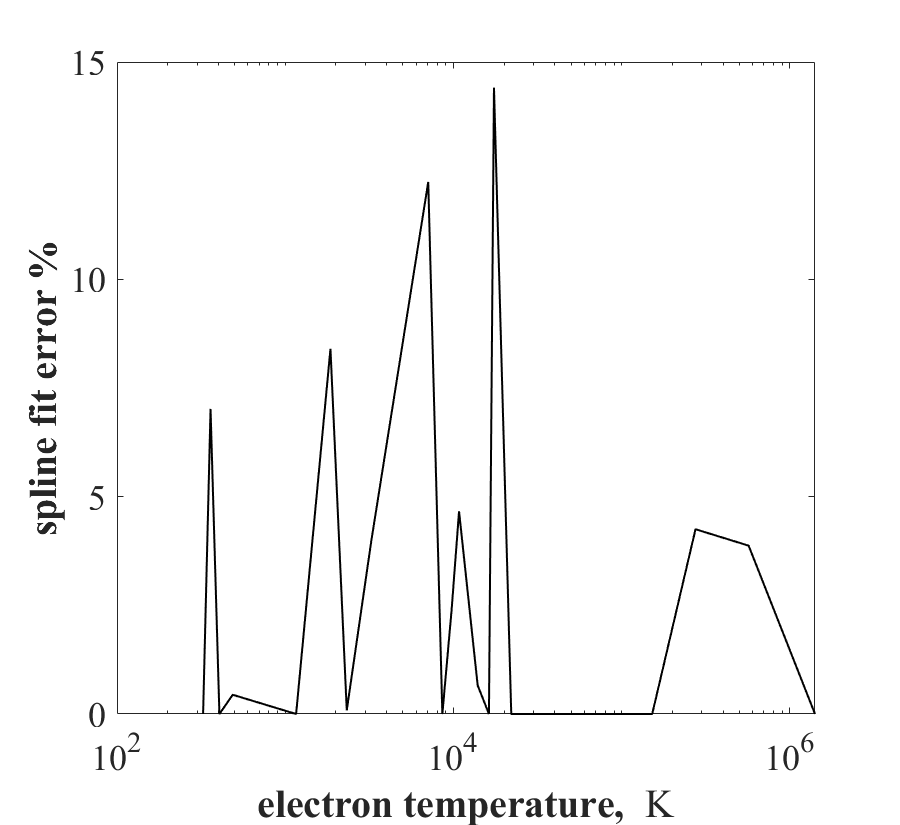
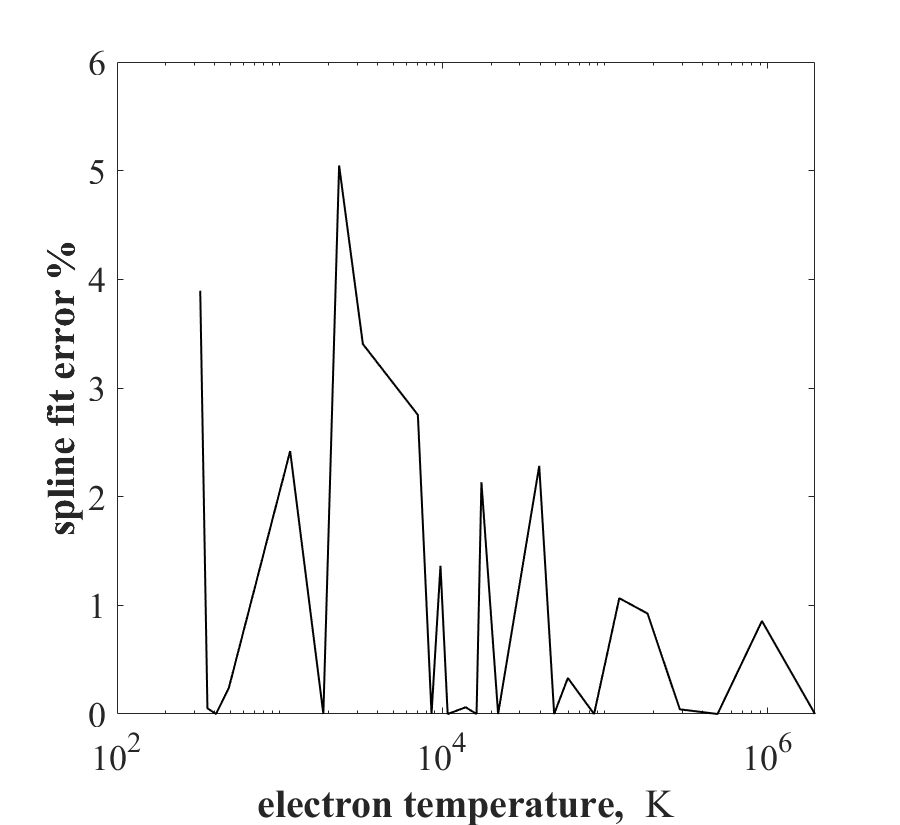
24apr12a

diff --git a/model/chem/_Air_Plasma_11s/rodriguez2024.c b/model/chem/_Air_Plasma_11s/rodriguez2024.c
@@ -163,31 +163,27 @@ static double _kf30(np_t np, gl_t *gl, double Te){
   double kf30;
   double Te_control[] = 
   { 
-    9.84834371140720,
-    9.98187510403172,
-    10.2842026253110,
-    10.4379000473402,
-    10.7180735520921,
-    11.0847700544918,
-    11.1312172236506,
-    11.1947672400602,
-    11.4359634780945,
-    11.5970902872688,
+    9.46979690785538,
+    9.51956710917422,
+    9.84281034346154,
+    10.1366387167620,
+    10.7022762534868,
+    11.6533000019413,
+    12.6902842369606,
+    11.8041027220493,
     14.9141228466324
   };
   double kf_control[] = 
   {
-    -49.4041090773736,
-    -44.5753383016722,
-    -37.3445496845415,
-    -34.6995321737901,
-    -30.8554121214849,
-    -26.0213832234918,
-    -24.7535094737620,
-    -23.5733405380780,
-    -21.3723961320896,
-    -20.4532386997334,
-    -13.9208710736221
+    -41.1651192144546,
+    -37.0450701265803,
+    -30.9051454150272,
+    -28.6391530514683,
+    -25.2959688327970,
+    -19.9307259125084,
+    -17.2892786324613,
+    -19.3648566793161,
+    -15.7126305428502
   };  
   int N = sizeof(Te_control)/sizeof(Te_control[0]);
   Te=min(Te_control[N-1],max(log( Te ),Te_control[0]));
@@ -200,29 +196,29 @@ static double _kf31(np_t np, gl_t *gl, double Te){
   double kf31;
   double Te_control[] = 
   { 
-    10.0202907721932,
-    10.4221354987933,
-    10.7348892349487,
-    10.8886789169741,
-    10.9092628341176,
-    10.9258895456693,
-    11.0565991775251,
-    11.3985508799110,
-    11.6521900679188,
+    10.2400211744112,
+    10.4029544399414,
+    10.5381130290901,
+    10.6701822643877,
+    10.7424402398679,
+    10.9126526678721,
+    11.2567702476959,
+    11.5315128937124,
+    13.1215130159495,
     14.9141228466324
   };
   double kf_control[] = 
   {
-    -52.3856567159357,
-    -38.4423353219267,
-    -31.5688748813912,
-    -28.5071300581699,
-    -27.6690345581268,
-    -26.5034974837660,
-    -23.7214009951167,
-    -21.0585987228742,
-    -19.8357861869264,
-    -13.8155105579643
+    -44.0086650000949,
+    -36.3676148723802,
+    -31.2399809468666,
+    -27.6637509405515,
+    -26.2590792610331,
+    -23.9600510823582,
+    -21.3796954345712,
+    -20.0957244134845,
+    -16.5643827535867,
+    -15.2808481264246
   };  
   int N = sizeof(Te_control)/sizeof(Te_control[0]);
   Te=min(Te_control[N-1],max(log( Te ),Te_control[0]));
@@ -235,33 +231,31 @@ static double _kf32(np_t np, gl_t *gl, double Te){
   double kf32;
   double Te_control[] = 
   { 
-    9.50151762905524,
-    9.71542525168571,
-    9.95743728730430,
-    10.1946648096152,
-    10.3714783078394,
-    10.5141430098725,
-    10.5787996714793,
-    10.7837034610053,
-    11.2280252072139,
-    11.6627349810954,
-    12.1515417373043,
-    13.9673160827362
+    8.48735489578072,
+    8.88417441689603,
+    9.26307991901759,
+    9.56535121835222,
+    9.79028324262506,
+    10.0982265002167,
+    10.5172886557505,
+    11.6903229376143,
+    11.8306340172242,
+    13.1133488685331,
+    14.9141228466324
   };
   double kf_control[] = 
   {
-    -45.3314260119327,
-    -38.8204148555533,
-    -34.3366522108206,
-    -31.3594733451623,
-    -29.4711308460977,
-    -27.4629675309323,
-    -25.8461184341637,
-    -23.1037043691453,
-    -20.3218087502358,
-    -18.7708057570274,
-    -17.6468756603750,
-    -15.9835647580007
+    -43.8225480449728,
+    -39.5269655001771,
+    -36.0264392504189,
+    -33.1178390903473,
+    -30.6688261659045,
+    -26.8094807206002,
+    -22.8654342085346,
+    -18.6548852426260,
+    -18.3163207286281,
+    -16.4545478877795,
+    -15.5993018575432
   };  
   int N = sizeof(Te_control)/sizeof(Te_control[0]);
   Te=min(Te_control[N-1],max(log( Te ),Te_control[0]));
@@ -275,29 +269,23 @@ static double _kf15(np_t np, gl_t *gl, double Te){
   double kf15;
   double Te_control[] = 
   {  
-    10.0919989351798,
-    10.3442206350373,
-    10.5823374110181,
-    10.7863467402086,
-    10.9561107786913,
-    11.0733086109728,
-    11.1957238727862,
-    11.5243108048507,
-    11.7451570889014,
+    9.97325436098781,
+    10.1148027736797,
+    10.2972026114240,
+    10.5460787574850,
+    11.0330643193868,
+    12.1594735791518,
     14.9141228466324
   };
   double kf_control[] = 
   {
-    -42.1769654392388,
-    -35.8210711660121,
-    -31.6269693562945,
-    -28.9594239986327,
-    -26.7534712123708,
-    -24.4384892663999,
-    -22.9054047768646,
-    -20.7872711669223,
-    -19.8825610920289,
-    -16.2234561666161
+    -49.6819351185621,
+    -39.5250605981431,
+    -32.5921522151217,
+    -27.7250021793994,
+    -23.2627131533956,
+    -18.8262458570609,
+    -16.4747705948971
   };  
   int N = sizeof(Te_control)/sizeof(Te_control[0]);
   Te=min(Te_control[N-1],max(log( Te ),Te_control[0]));
@@ -310,33 +298,25 @@ static double _kf16(np_t np, gl_t *gl, double Te){
   double kf16;
   double Te_control[] = 
   {  
-    10.1301841069853,
-    10.4453526563597,
-    10.7659824001058,
-    10.9631736675009,
-    11.0234552016433,
-    11.0584290042022,
-    11.1400174158300,
-    11.4668148883919,
-    11.7953918655750,
-    12.2633154677968,
-    16.6514875639422,
+    9.74441278855896,
+    9.94024806451964,
+    10.2101556529438,
+    10.5776176382447,
+    11.0606203856489,
+    12.0830741580182,
+    13.3653926898139,
     14.9141228466324
   };
   double kf_control[] = 
   {
-    -52.8136266906515,
-    -38.2560553235463,
-    -31.0486528040541,
-    -27.8416186980742,
-    -25.7922190403672,
-    -24.5029456553868,
-    -23.0528111115232,
-    -20.5392790008334,
-    -19.2421159448138,
-    -18.1015000044412,
-    -17.0573991571415,
-    -16.2234561666161
+    -45.7081121554908,
+    -36.5368222983865,
+    -30.2191572203654,
+    -26.0516301248467,
+    -22.8011086572626,
+    -18.4691359642218,
+    -16.8692957629669,
+    -16.3412392022725
   };  
   int N = sizeof(Te_control)/sizeof(Te_control[0]);
   Te=min(Te_control[N-1],max(log( Te ),Te_control[0]));

diff --git a/model/chem/_Air_Plasma_8s/rodriguez2024.c b/model/chem/_Air_Plasma_8s/rodriguez2024.c
@@ -76,31 +76,27 @@ static double _kf1(np_t np, gl_t *gl, double Te){
   double kf1;
   double Te_control[] = 
   { 
-    9.84834371140720,
-    9.98187510403172,
-    10.2842026253110,
-    10.4379000473402,
-    10.7180735520921,
-    11.0847700544918,
-    11.1312172236506,
-    11.1947672400602,
-    11.4359634780945,
-    11.5970902872688,
+    9.46979690785538,
+    9.51956710917422,
+    9.84281034346154,
+    10.1366387167620,
+    10.7022762534868,
+    11.6533000019413,
+    12.6902842369606,
+    11.8041027220493,
     14.9141228466324
   };
   double kf_control[] = 
   {
-    -49.4041090773736,
-    -44.5753383016722,
-    -37.3445496845415,
-    -34.6995321737901,
-    -30.8554121214849,
-    -26.0213832234918,
-    -24.7535094737620,
-    -23.5733405380780,
-    -21.3723961320896,
-    -20.4532386997334,
-    -13.9208710736221
+    -41.1651192144546,
+    -37.0450701265803,
+    -30.9051454150272,
+    -28.6391530514683,
+    -25.2959688327970,
+    -19.9307259125084,
+    -17.2892786324613,
+    -19.3648566793161,
+    -15.7126305428502
   };  
   int N = sizeof(Te_control)/sizeof(Te_control[0]);
   Te=min(Te_control[N-1],max(log( Te ),Te_control[0]));
@@ -113,30 +109,30 @@ static double _kf2(np_t np, gl_t *gl, double Te){
   double kf2;
   double Te_control[] = 
   { 
-    10.0202907721932,
-    10.4221354987933,
-    10.7348892349487,
-    10.8886789169741,
-    10.9092628341176,
-    10.9258895456693,
-    11.0565991775251,
-    11.3985508799110,
-    11.6521900679188,
+    10.2400211744112,
+    10.4029544399414,
+    10.5381130290901,
+    10.6701822643877,
+    10.7424402398679,
+    10.9126526678721,
+    11.2567702476959,
+    11.5315128937124,
+    13.1215130159495,
     14.9141228466324
   };
   double kf_control[] = 
   {
-    -52.3856567159357,
-    -38.4423353219267,
-    -31.5688748813912,
-    -28.5071300581699,
-    -27.6690345581268,
-    -26.5034974837660,
-    -23.7214009951167,
-    -21.0585987228742,
-    -19.8357861869264,
-    -13.8155105579643
-  };  
+    -44.0086650000949,
+    -36.3676148723802,
+    -31.2399809468666,
+    -27.6637509405515,
+    -26.2590792610331,
+    -23.9600510823582,
+    -21.3796954345712,
+    -20.0957244134845,
+    -16.5643827535867,
+    -15.2808481264246
+  }; 
   int N = sizeof(Te_control)/sizeof(Te_control[0]);
   Te=min(Te_control[N-1],max(log( Te ),Te_control[0]));
   kf2 = EXM_f_from_monotonespline(N, Te_control, kf_control, Te);
